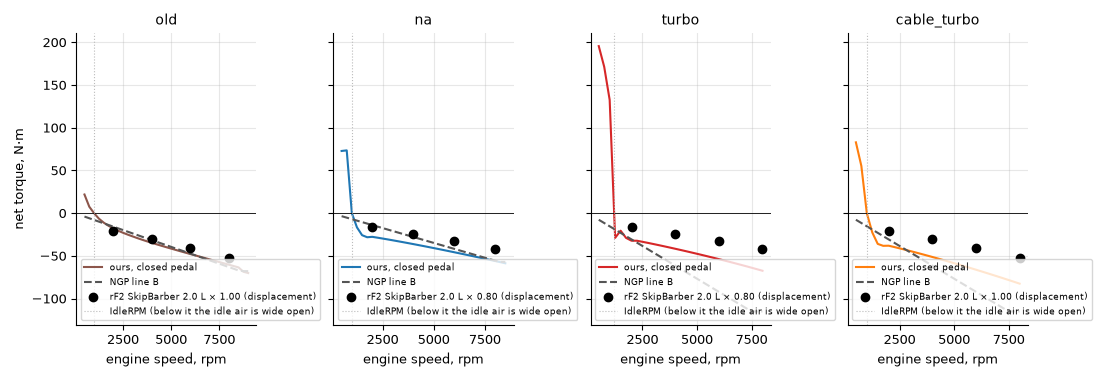
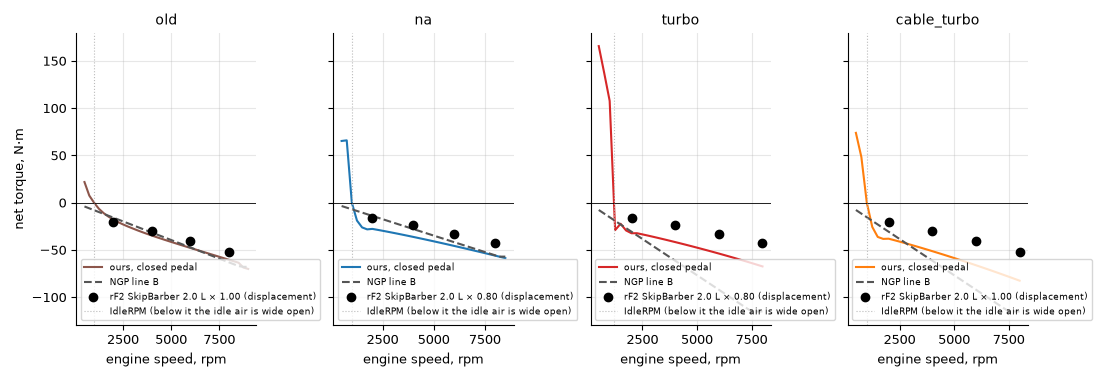
docs/images/engine-model: regenerate after the off-boost hold and idle reserve

diff --git a/notes/engine-model.md b/notes/engine-model.md
@@ -56,8 +56,8 @@ the doc comments. Each line gives its evidence: a source (list at the end), or "
 - The idle air adds to the aim; anti-lag's kick overrides it [MoTeC DBW]. Blips and shift cuts come through the
   interface's throttle (NGP's control unit).
 - Part throttle follows WOT to an rpm then falls at roughly constant power, as BeamNG's model [BeamNG throttle].
-  Peak net torque at pedal 10/20/30/50 %: na 29/43/54/77 %, turbo 17/42/55/88 %, old 31/47/63/93 %, cable_turbo
-  15/26/45/87 % of max (BeamNG 2023: 49/65/76/91 %).
+  Peak net torque at pedal 10/20/30/50 %: na 25/43/54/77 %, turbo 12/34/48/88 %, old 27/47/63/93 %, cable_turbo
+  13/25/38/88 % of max (BeamNG 2023: 49/65/76/91 %).
 
 ## Torque (`calibrate.rs`, `ecu.rs`)
 
